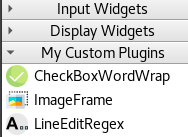
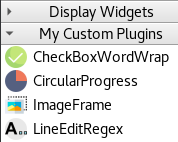
:sparkles: Add CircularProgress plugin

diff --git a/plugins/CircularProgress/src/circularprogress.cpp b/plugins/CircularProgress/src/circularprogress.cpp
@@ -1,0 +1,146 @@
+#include "circularprogress.h"
+#include <QPainter>
+#include <QMouseEvent>
+
+CircularProgress::CircularProgress(QWidget *parent)
+    : QWidget(parent)
+    , m_progressType(CircularProgress::Ellipse)
+    , m_bgColor(QColor("dimgrey"))
+    , m_valueColor(QColor("cornflowerblue"))
+    , m_min(0)
+    , m_max(100)
+    , m_value(0)
+    , m_barWidth(16)
+	, m_showTextPercent(true)
+{
+    //setMouseTracking(true);
+    connect(this, SIGNAL(minChanged(qreal)), this, SLOT(update()));
+    connect(this, SIGNAL(maxChanged(qreal)), this, SLOT(update()));
+    connect(this, SIGNAL(valueChanged(qreal)), this, SLOT(update()));
+}
+
+void CircularProgress::setProgressType(CircularProgress::ProgressType progressType)
+{
+    m_progressType = progressType;
+}
+
+qreal CircularProgress::getValue() const
+{
+    return m_value;
+}
+
+void CircularProgress::setValue(qreal value)
+{
+    m_value = value;
+    emit valueChanged(value);
+}
+
+qreal CircularProgress::getMin() const
+{
+    return m_min;
+}
+
+void CircularProgress::setMin(qreal min)
+{
+    m_min = min;
+    emit minChanged(min);
+}
+
+qreal CircularProgress::getMax() const
+{
+    return m_max;
+}
+
+void CircularProgress::setMax(qreal max)
+{
+    m_max = max;
+    emit maxChanged(max);
+}
+
+void CircularProgress::setRange(qreal min, qreal max)
+{
+    blockSignals(true);
+    setMin(min);
+    blockSignals(false);
+    setMax(max);
+}
+
+QColor CircularProgress::getBgColor() const
+{
+	return m_bgColor;
+}
+
+void CircularProgress::setBgColor(QColor bgcolor)
+{
+	m_bgColor = bgcolor;
+	update();
+}
+
+QColor CircularProgress::getValueColor() const
+{
+	return m_valueColor;
+}
+
+void CircularProgress::setValueColor(QColor valuecolor)
+{
+	m_valueColor = valuecolor;
+	update();
+}
+
+int CircularProgress::getBarWidth() const
+{
+	return m_barWidth;
+}
+
+void CircularProgress::setBarWidth(int bwidth)
+{
+	m_barWidth = bwidth;
+	update();
+}
+
+bool CircularProgress::isShowingText() const
+{
+	return m_showTextPercent;
+}
+
+void CircularProgress::setTextVisible(bool visible)
+{
+	m_showTextPercent = visible;
+	update();
+}
+
+void CircularProgress::paintEvent(QPaintEvent *event)
+{
+    QWidget::paintEvent(event);
+    QPainter painter(this);
+    //painter.fillRect(rect(), QColor(Qt::white));
+
+    QPen pen = painter.pen();
+    QBrush brush = painter.brush();
+    QFont font = painter.font();
+    //int w = width(), h = height();
+
+    pen.setWidth(m_barWidth);
+    pen.setCapStyle(Qt::FlatCap);
+    int offset = pen.width()/2;
+    QRect rectArea(rect().adjusted(offset, offset, -offset, -offset));
+    painter.setRenderHint(QPainter::Antialiasing);
+
+    int startAngle = 90 * 16;
+    int angle = int((((m_value-m_min)/(m_max-m_min))*16) * 360);
+    // All angle must be specified in 1/16th of a degree
+    pen.setColor(m_bgColor);
+    painter.setPen(pen);
+    painter.drawArc(rectArea, startAngle, (16 * 360));
+    // draw value text
+	if (m_showTextPercent){
+		font.setPointSize(rectArea.width()/4);
+		painter.setFont(font);
+		painter.drawText(rect(), Qt::AlignCenter, QString::number(int(((m_value-m_min)/(m_max-m_min))*100))+"%");
+	}
+    // draw value arc
+    pen.setColor(m_valueColor);
+    pen.setWidth(m_barWidth-m_barWidth/3);
+    painter.setPen(pen);
+    painter.drawArc(rectArea, startAngle, -angle);
+}

diff --git a/plugins/CircularProgress/src/circularprogress.h b/plugins/CircularProgress/src/circularprogress.h
@@ -1,0 +1,62 @@
+#ifndef CIRCULARPROGRESS_H
+#define CIRCULARPROGRESS_H
+
+#include <QWidget>
+
+/**
+ * @author thibdev
+ * @brief The Image class
+ */
+
+class CircularProgress : public QWidget
+{
+    Q_OBJECT
+
+    Q_PROPERTY(qreal min READ getMin WRITE setMin NOTIFY minChanged)
+    Q_PROPERTY(qreal max READ getMax WRITE setMax NOTIFY maxChanged)
+    Q_PROPERTY(qreal value READ getValue WRITE setValue NOTIFY valueChanged)
+	Q_PROPERTY(QColor bgColor READ getBgColor WRITE setBgColor)
+	Q_PROPERTY(QColor valueColor READ getValueColor WRITE setValueColor)
+	Q_PROPERTY(int barWidth READ getBarWidth WRITE setBarWidth)
+	Q_PROPERTY(bool showtext READ isShowingText WRITE setTextVisible)
+
+public:
+    enum ProgressType { Filled=0, Ellipse };
+    explicit CircularProgress(QWidget *parent = nullptr);
+    void setProgressType(ProgressType progressType);
+    qreal getValue() const;
+    void setValue(qreal value);
+    qreal getMin() const;
+    void setMin(qreal min);
+    qreal getMax() const;
+    void setMax(qreal max);
+    void setRange(qreal min, qreal max);
+	QColor getBgColor() const;
+	void setBgColor(QColor bgcolor);
+	QColor getValueColor() const;
+	void setValueColor(QColor valuecolor);
+	int getBarWidth() const;
+	void setBarWidth(int bwidth);
+	bool isShowingText() const;
+	void setTextVisible(bool visible = true);
+
+signals:
+    void valueChanged(qreal nval);
+    void minChanged(qreal nmin);
+    void maxChanged(qreal nmax);
+
+public slots:
+
+protected:
+    void paintEvent(QPaintEvent *event) override;
+
+private:
+    ProgressType m_progressType;
+    QColor m_bgColor, m_valueColor;
+    qreal m_min, m_max, m_value;
+    int m_barWidth;
+	bool m_showTextPercent;
+
+};
+
+#endif // CIRCULARPROGRESS_H

diff --git a/plugins/CircularProgress/src/circularprogressplugin.cpp b/plugins/CircularProgress/src/circularprogressplugin.cpp
@@ -1,0 +1,73 @@
+#include "circularprogress.h"
+#include "circularprogressplugin.h"
+
+#include <QtPlugin>
+
+CircularProgressPlugin::CircularProgressPlugin(QObject *parent)
+    : QObject(parent)
+{
+    m_initialized = false;
+}
+
+void CircularProgressPlugin::initialize(QDesignerFormEditorInterface * /* core */)
+{
+    if (m_initialized)
+        return;
+
+    // Add extension registrations, etc. here
+
+    m_initialized = true;
+}
+
+bool CircularProgressPlugin::isInitialized() const
+{
+    return m_initialized;
+}
+
+QWidget *CircularProgressPlugin::createWidget(QWidget *parent)
+{
+    return new CircularProgress(parent);
+}
+
+QString CircularProgressPlugin::name() const
+{
+    return QLatin1String("CircularProgress");
+}
+
+QString CircularProgressPlugin::group() const
+{
+    return QLatin1String("My Custom Plugins");
+}
+
+QIcon CircularProgressPlugin::icon() const
+{
+    return QIcon(QLatin1String("://icons/pie-chart.png"));
+}
+
+QString CircularProgressPlugin::toolTip() const
+{
+    return QLatin1String("A circular progress bar");
+}
+
+QString CircularProgressPlugin::whatsThis() const
+{
+    return QLatin1String("A circular progress bar.");
+}
+
+bool CircularProgressPlugin::isContainer() const
+{
+    return false;
+}
+
+QString CircularProgressPlugin::domXml() const
+{
+    return QLatin1String("<widget class=\"CircularProgress\" name=\"circularProgress\">\n</widget>\n");
+}
+
+QString CircularProgressPlugin::includeFile() const
+{
+    return QLatin1String("circularprogress.h");
+}
+#if QT_VERSION < 0x050000
+Q_EXPORT_PLUGIN2(CircularProgressPlugin, CircularProgressPlugin)
+#endif // QT_VERSION < 0x050000

diff --git a/plugins/CircularProgress/src/circularprogressplugin.h b/plugins/CircularProgress/src/circularprogressplugin.h
@@ -1,0 +1,37 @@
+#ifndef CIRCULARPROGRESSPLUGIN_H
+#define CIRCULARPROGRESSPLUGIN_H
+
+#include <QDesignerCustomWidgetInterface>
+
+/**
+ * @brief CircularProgressPlugin class
+ * http://doc.qt.io/archives/qt-4.8/designer-creating-custom-widgets.html
+ */
+class CircularProgressPlugin : public QObject, public QDesignerCustomWidgetInterface
+{
+    Q_OBJECT
+    Q_INTERFACES(QDesignerCustomWidgetInterface)
+#if QT_VERSION >= 0x050000
+    Q_PLUGIN_METADATA(IID "org.qt-project.Qt.QDesignerCustomWidgetInterface")
+#endif // QT_VERSION >= 0x050000
+
+public:
+    CircularProgressPlugin(QObject *parent = Q_NULLPTR);
+
+    bool isContainer() const;
+    bool isInitialized() const;
+    QIcon icon() const;
+    QString domXml() const;
+    QString group() const;
+    QString includeFile() const;
+    QString name() const;
+    QString toolTip() const;
+    QString whatsThis() const;
+    QWidget *createWidget(QWidget *parent);
+    void initialize(QDesignerFormEditorInterface *core);
+
+private:
+    bool m_initialized;
+};
+
+#endif // CIRCULARPROGRESSPLUGIN_H

diff --git a/README.md b/README.md
@@ -15,6 +15,7 @@ A set of custom widgets to use directly in QtDesigner.
 * [CheckBoxWordWrap](./plugins/CheckBoxWordWrap)
 * [LineEditRegex](./plugins/LineEditRegex)
 * [ImageFrame](./plugins/ImageFrame)
+* [CircularProgress](./plugins/CircularProgress)
 
 ![plugins render](screenshots/plugins_results.png)
 
@@ -47,6 +48,6 @@ If the plugins are correctly installed, they appear in menu `Tools/Form Editor/A
 
 ## Plugins icons
 
-CheckBoxWordWrap and ImageFrame icon made by [Freepik](
-https://www.freepik.com/) from [Flaticon](www.flaticon.com)  
+CheckBoxWordWrap and ImageFrame icon made by [Freepik](https://www.freepik.com/) from [Flaticon](www.flaticon.com)  
 LineEditRegex icon made by [Alfredo creates](https://www.alfredocreates.com/) from [Flaticon](www.flaticon.com)
+CircularProgress icon made by [Smashicons](https://smashicons.com/) from [Flaticon](www.flaticon.com)

diff --git a/plugins/CircularProgress/README.md b/plugins/CircularProgress/README.md
@@ -1,0 +1,17 @@
+# CircularProgress
+
+Coming soon: infinite mode
+
+## Properties
+
+|Property|Type|
+|-|-|
+|min|qreal|
+|max|qreal|
+|value|qreal|
+|bgColor|[QColor](http://doc.qt.io/qt-5/qcolor.html)|
+|valueColor|[QColor](http://doc.qt.io/qt-5/qcolor.html)|
+|barWidth|int|
+|showtext|bool|
+
+![plugins render](../../screenshots/circularprogress_properties.png)
